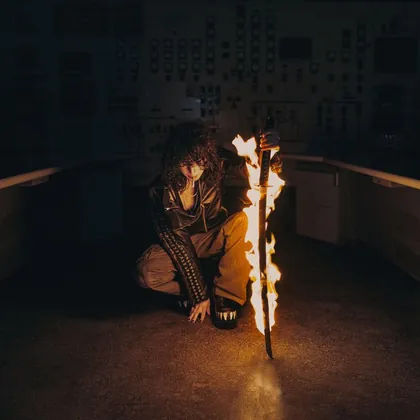
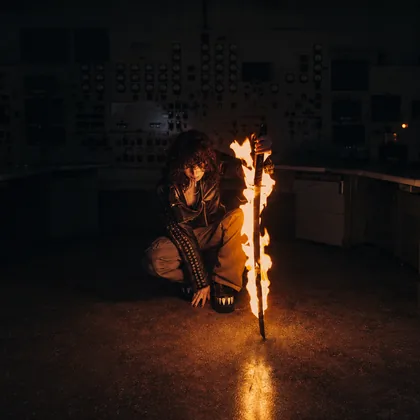
La troisieme image de Jane Remover, nette et en 16:9
L ancienne venait d un carre de 736 px, etire sur tout l ecran : d ou le
flou. La nouvelle fait 1672x940, au format de l ecran, avec sa vignette
recadree comme les autres.

diff --git a/index.html b/index.html
@@ -4054,7 +4054,7 @@ var REDUCED = window.matchMedia('(prefers-reduced-motion: reduce)').matches;
     { from:30, gain:.97, meta:'13 tracks', eau:[.36, .07, .04],
       media:[{ src:'assets/jane_v1.mp4?v=2', th:'assets/jane_tv1.webp?v=2' },
              { src:'assets/jane_v2.mp4', th:'assets/jane_tv2.webp' },
-             { src:'assets/jane_p3.webp', th:'assets/jane_tp3.webp' },
+             { src:'assets/jane_p3.webp?v=2', th:'assets/jane_tp3.webp?v=2' },
              { src:'assets/jane_v4.mp4', th:'assets/jane_tv4.webp' },
              { src:'assets/jane_v5.mp4?v=2', th:'assets/jane_tv5.webp?v=2' }] },
     /* plus fort que les deux autres une fois filtre : ramene a leur niveau */
